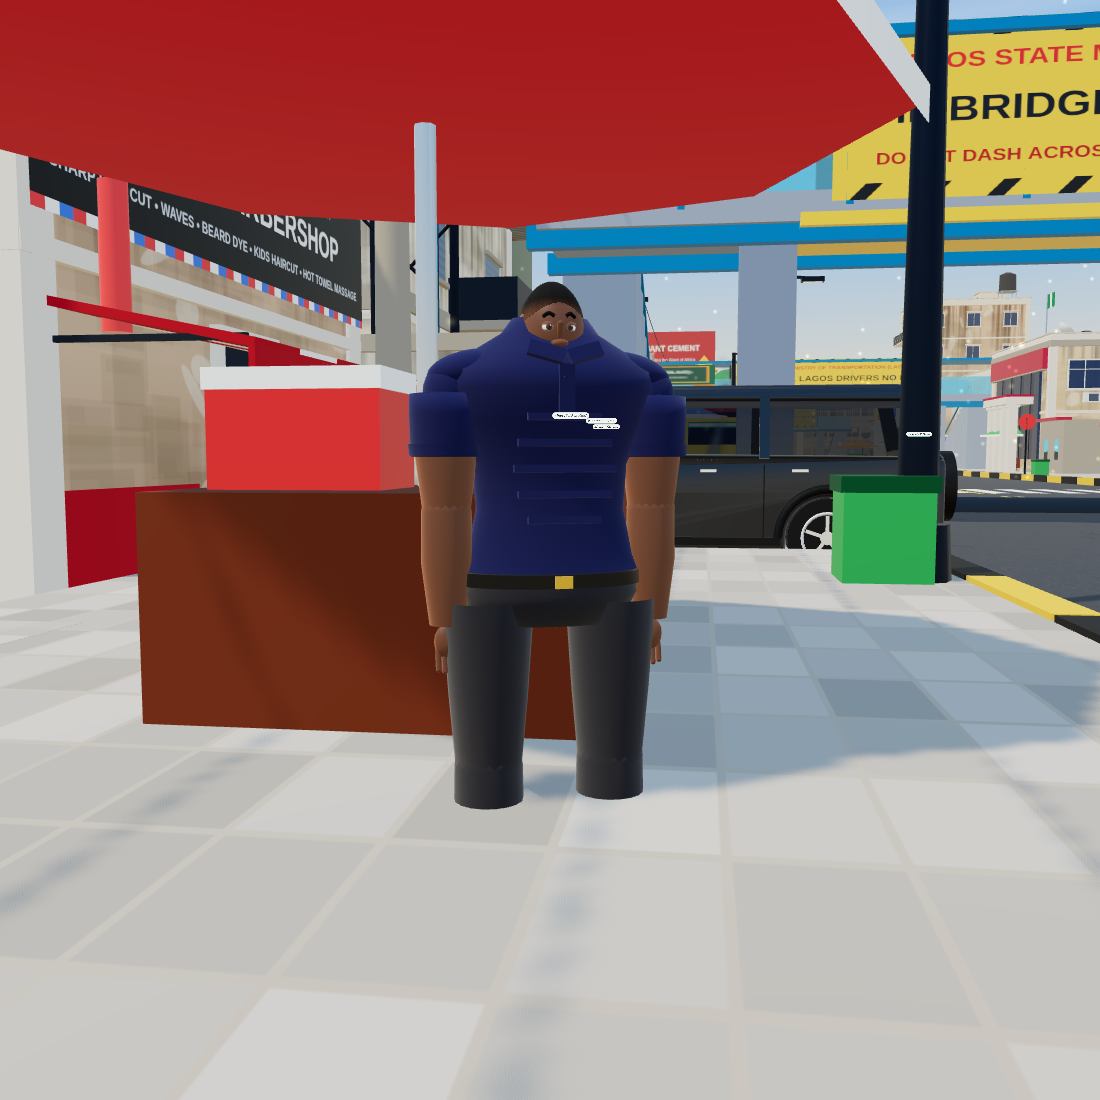
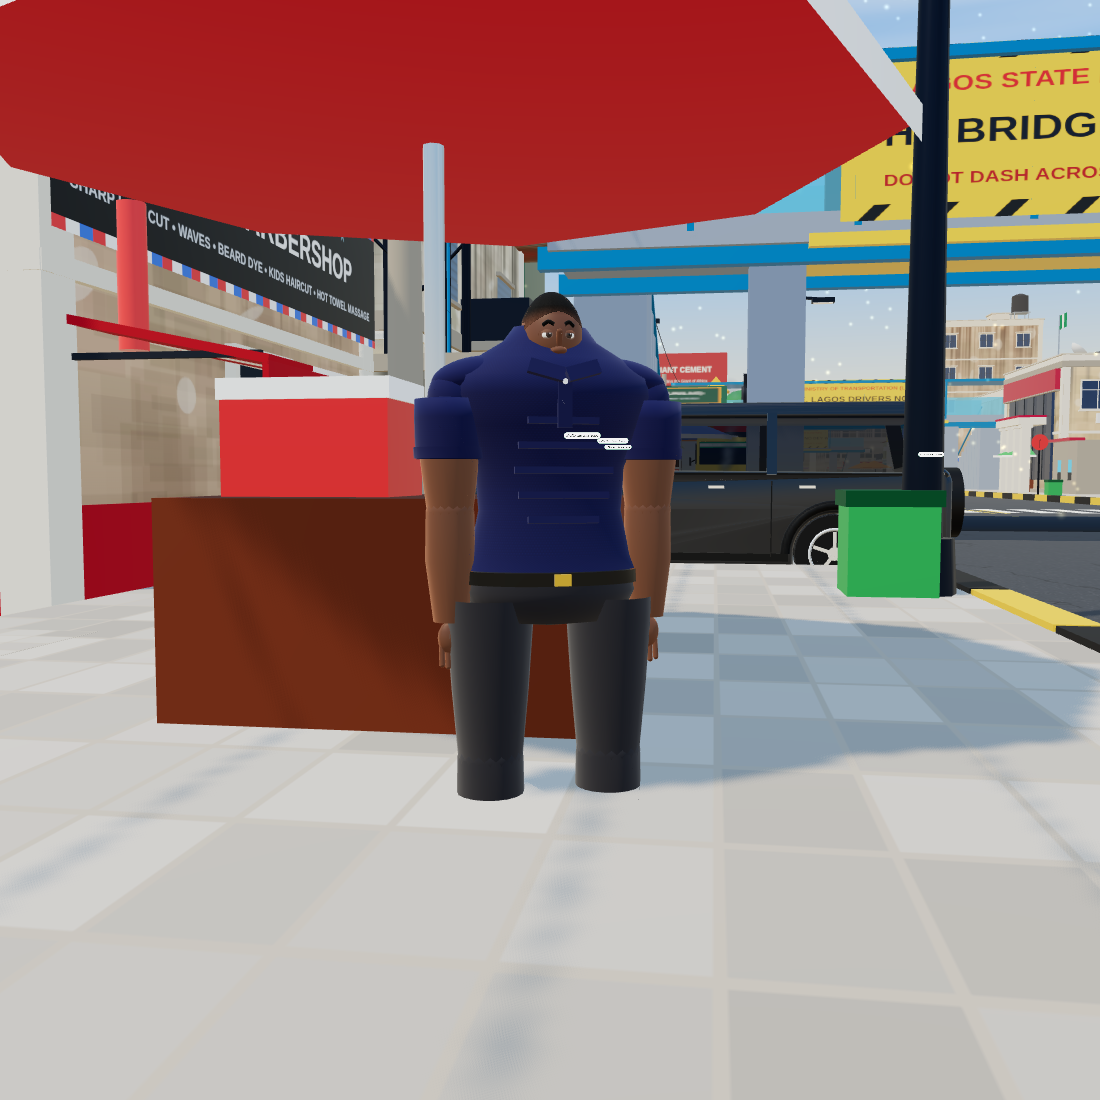
Lower polo collar/trap so neck no longer funnels into the chin.

diff --git a/nigeria-life/src/graphics/people/PersonBuilder.ts b/nigeria-life/src/graphics/people/PersonBuilder.ts
@@ -381,15 +381,15 @@ export function buildPerson(config: HumanConfig, nameTag: (username: string) => 
     shoulder.rotation.z = side * -0.18;
     torso.add(shoulder);
   }
-  // Trapezius / collar shelf: fills the gap between neck and shoulders so the silhouette reads human
+  // Trapezius / collar shelf — stays below the chin (world ~1.40), slopes out to the shoulders
   const trap = new THREE.Mesh(
     lathe(
       [
-        [0.055, 0.34],
-        [0.1, 0.33],
-        [0.155 * breadth, 0.31],
-        [0.18 * breadth, 0.285],
-        [0.165 * breadth, 0.26],
+        [0.07, 0.295],
+        [0.12, 0.29],
+        [0.16 * breadth, 0.275],
+        [0.19 * breadth, 0.255],
+        [0.175 * breadth, 0.235],
       ],
       seg,
       sx * 0.92,
@@ -493,17 +493,16 @@ export function buildPerson(config: HumanConfig, nameTag: (username: string) => 
         new THREE.BoxGeometry(polo ? 0.095 : 0.075, polo ? 0.038 : 0.045, polo ? 0.016 : 0.012),
         cut.top === 'jacket' ? mat(0xffffff, 0.6) : top,
       );
-      wing.position.set(s * (polo ? 0.048 : 0.04), female ? 0.29 : 0.318, frontAt(0.28) - (polo ? 0.004 : 0.012));
-      wing.rotation.set(polo ? -0.35 : -0.5, polo ? s * 0.15 : 0, s * (polo ? 0.35 : 0.5));
+      wing.position.set(s * (polo ? 0.048 : 0.04), female ? 0.268 : 0.288, frontAt(0.26) - (polo ? 0.002 : 0.01));
+      wing.rotation.set(polo ? -0.28 : -0.5, polo ? s * 0.12 : 0, s * (polo ? 0.32 : 0.5));
       torso.add(wing);
     }
     if (cut.top === 'polo' && detailed) {
-      // Stand collar band under the wings
-      const band = new THREE.Mesh(lathe([[0.07, 0.3], [0.078, 0.325], [0.07, 0.34]], seg, sx * 0.75, sz * 1.05), top);
+      // Low stand collar — must not climb into the chin
+      const band = new THREE.Mesh(lathe([[0.068, 0.268], [0.074, 0.285], [0.068, 0.295]], seg, sx * 0.72, sz * 1.02), top);
       torso.add(band);
-      // Soft placket strip
-      const placket = new THREE.Mesh(new THREE.BoxGeometry(0.04, 0.14, 0.008), top);
-      placket.position.set(0, 0.22, frontAt(0.22) + 0.004);
+      const placket = new THREE.Mesh(new THREE.BoxGeometry(0.038, 0.12, 0.008), top);
+      placket.position.set(0, 0.2, frontAt(0.2) + 0.004);
       torso.add(placket);
     }
   }
